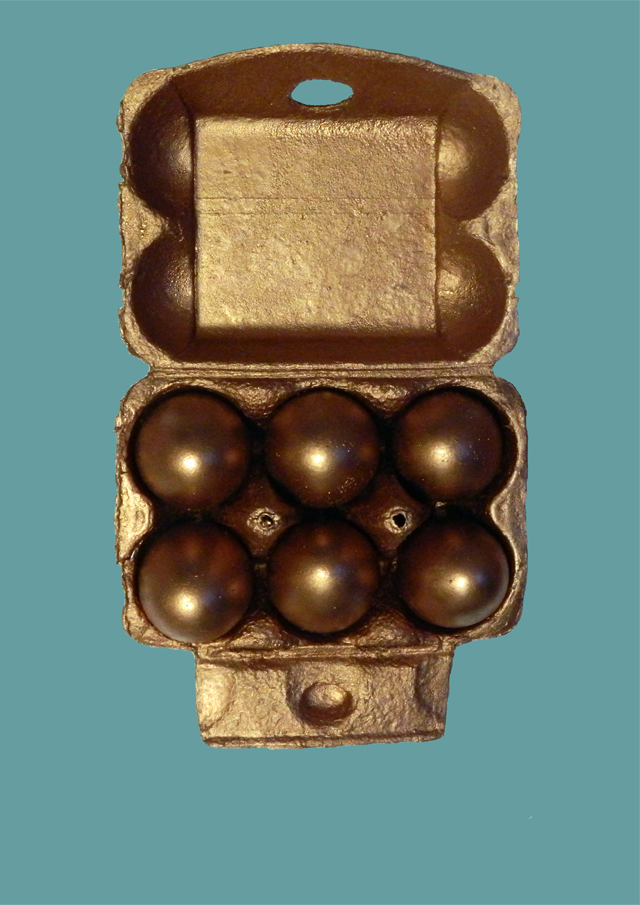
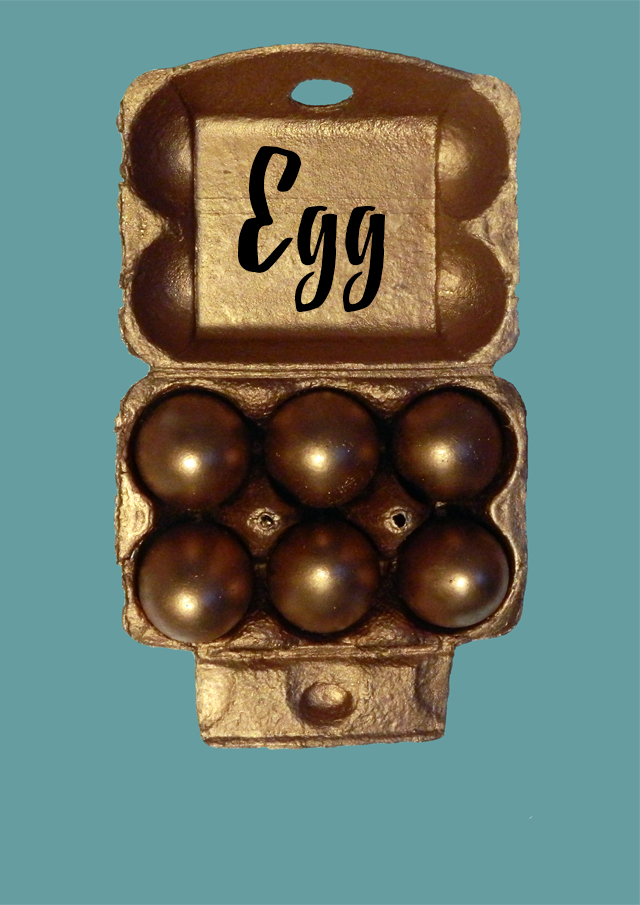
image mappinggg

Changed region(s): [[0.375, 0.1547, 0.625, 0.3713]]

diff --git a/eggwebsite.html b/eggwebsite.html
@@ -5,4 +5,11 @@
 <body>
 <title>Egg</title>
 <p align="center"><img src="final_egg_small.jpg" width="640" height="905" border="0" usemap="#menuline" alt="Image Map"></P>
+<map name="menuline">
+<area shape="rect" coords="130,387,256,495" href="boiled_egg.html">
+<area shape="rect" coords="270,387,392,493" href="omelette.html">
+<area shape="rect" coords="394,391,508,501" href="poached_egg.html">
+<area shape="rect" coords="132,527,254,633" href="scotch_egg.html">
+<area shape="rect" coords="268,523,384,621" href="scrambled_egg.html">
+<area shape="rect" coords="406,521,510,619" href="form_egg.html">
 </body>
